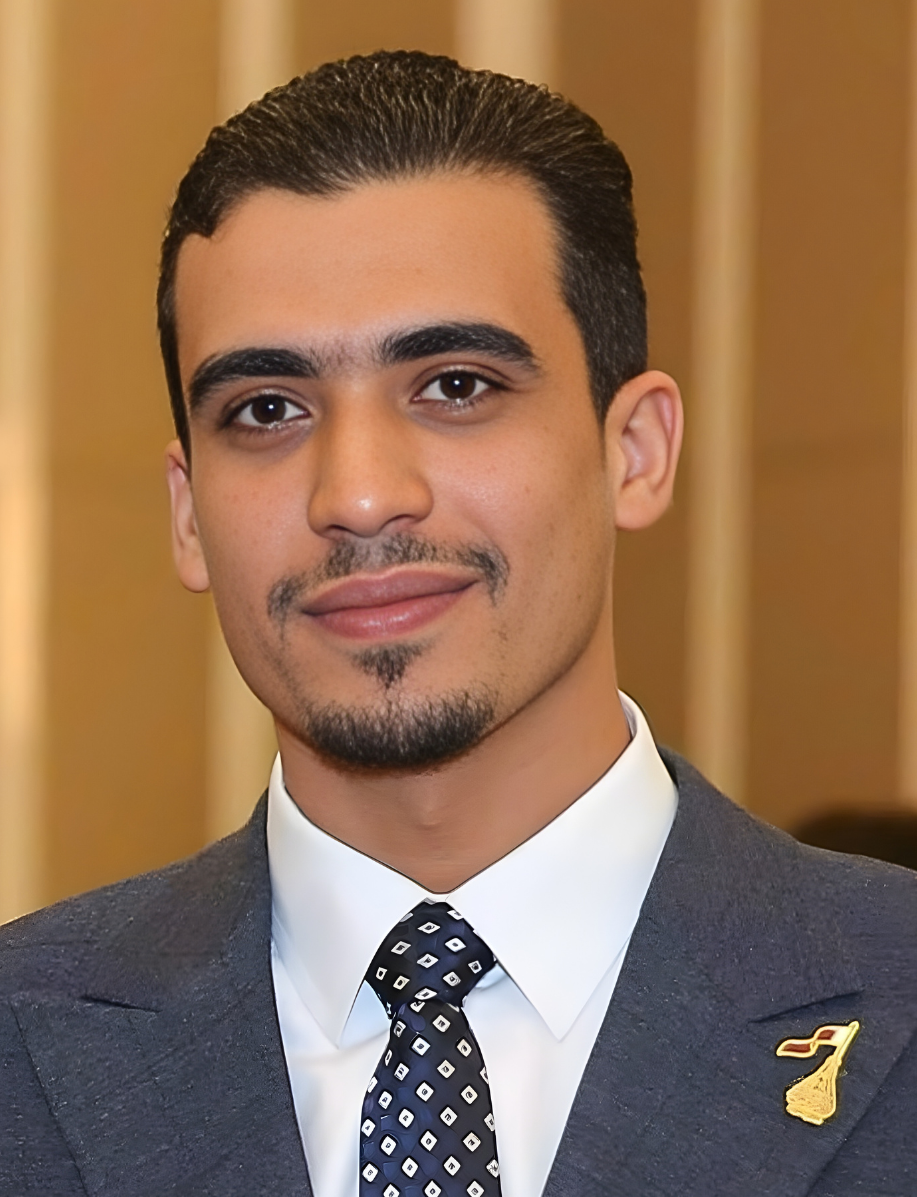
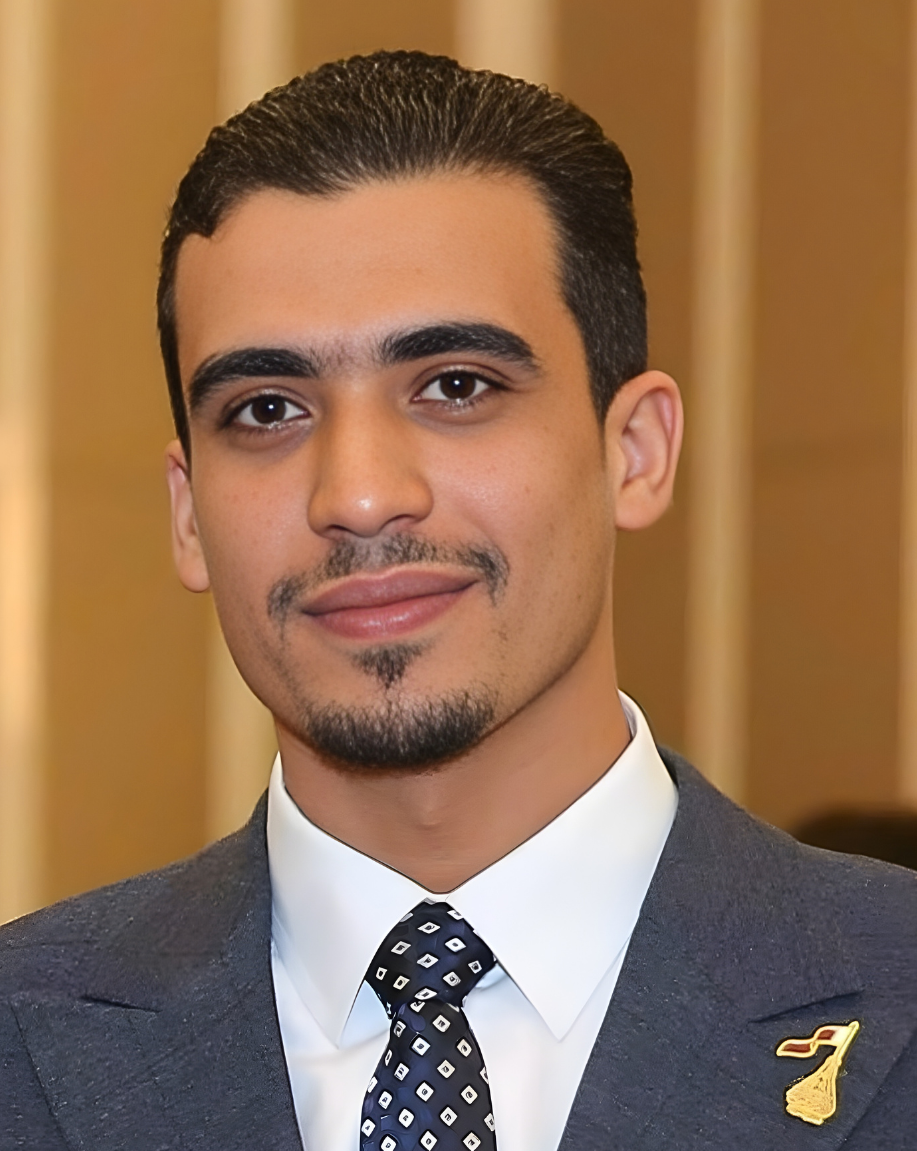
update team pictures

diff --git a/pages/About.tsx b/pages/About.tsx
@@ -60,7 +60,7 @@ const About: React.FC = () => {
   const team = [
     { name: 'Mohamed Ahmed - Mando', role: t('Founder & CEO'), image: '/team/mando.png' },
     { name: 'Ibrahim Darwish', role: t('Cofounder & Managing Director'), image: '/team/Ibrahim.jpeg' },
-    { name: 'Said Haggag', role: t('Procurement & Sourcing Manager'), image: '/team/said.jpg' },
+    { name: 'Said Haggag', role: t('Procurement & Sourcing Manager'), image: '/team/jack.jpeg' },
   ];
 
   return (
